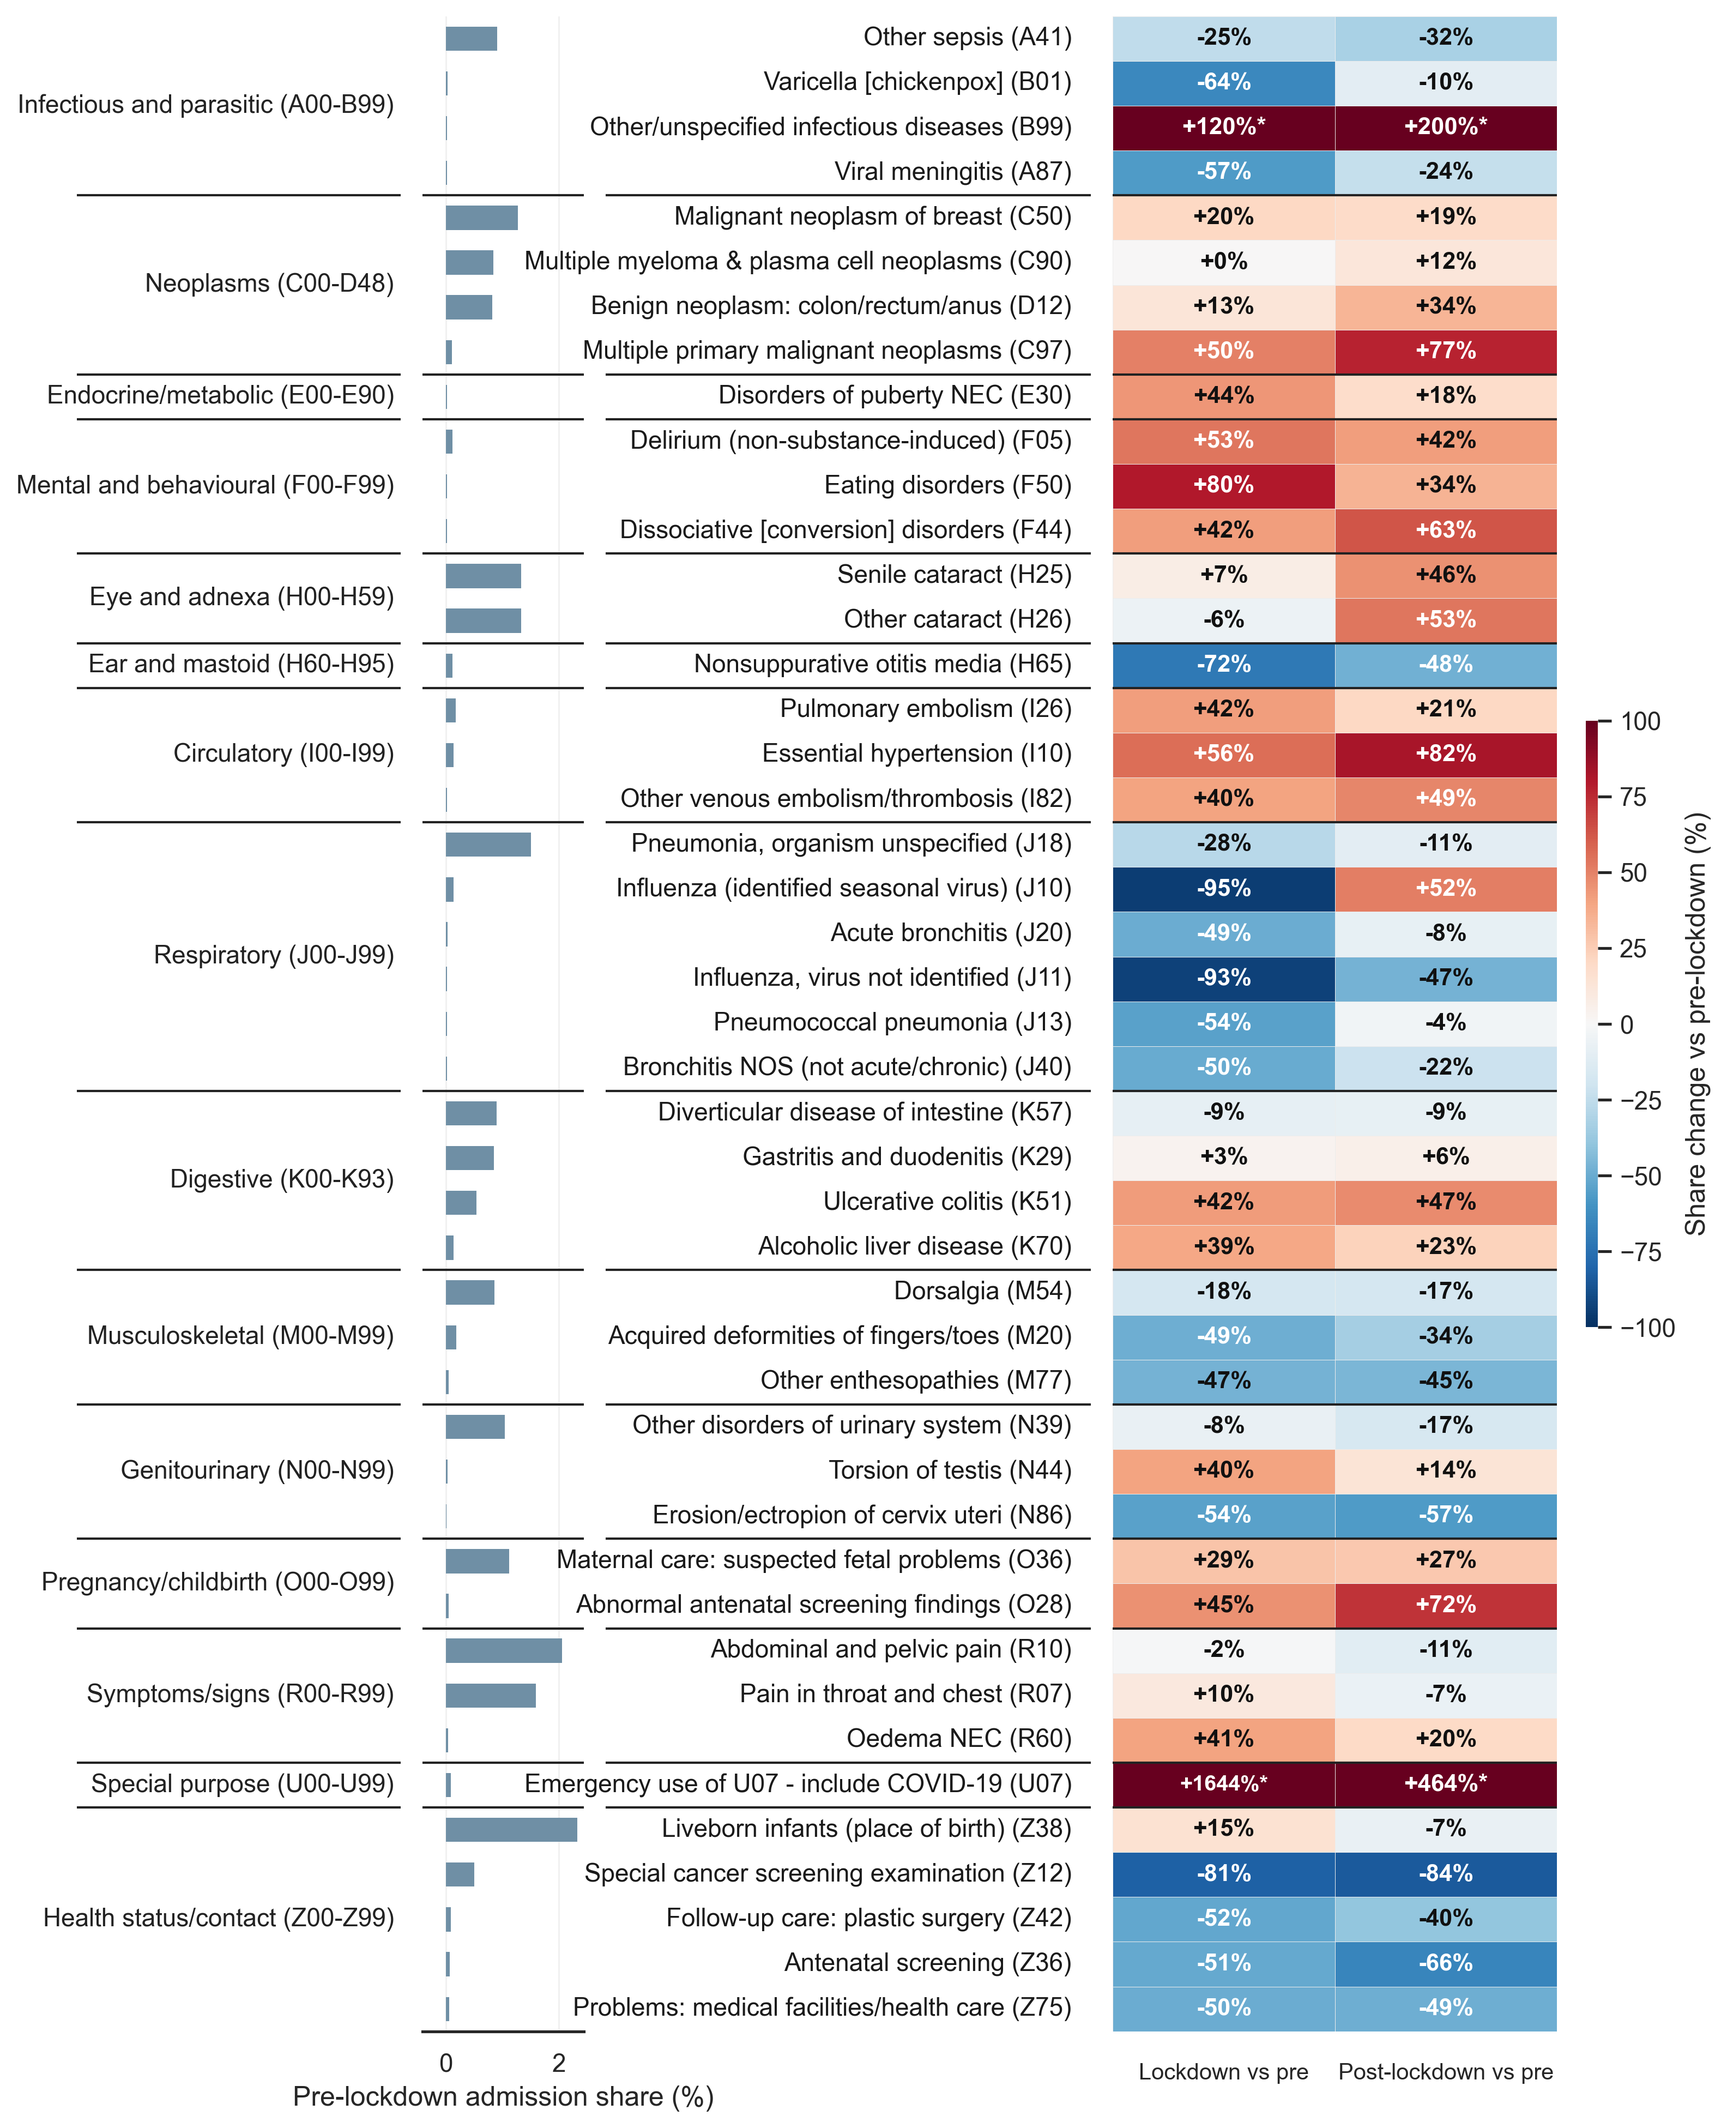
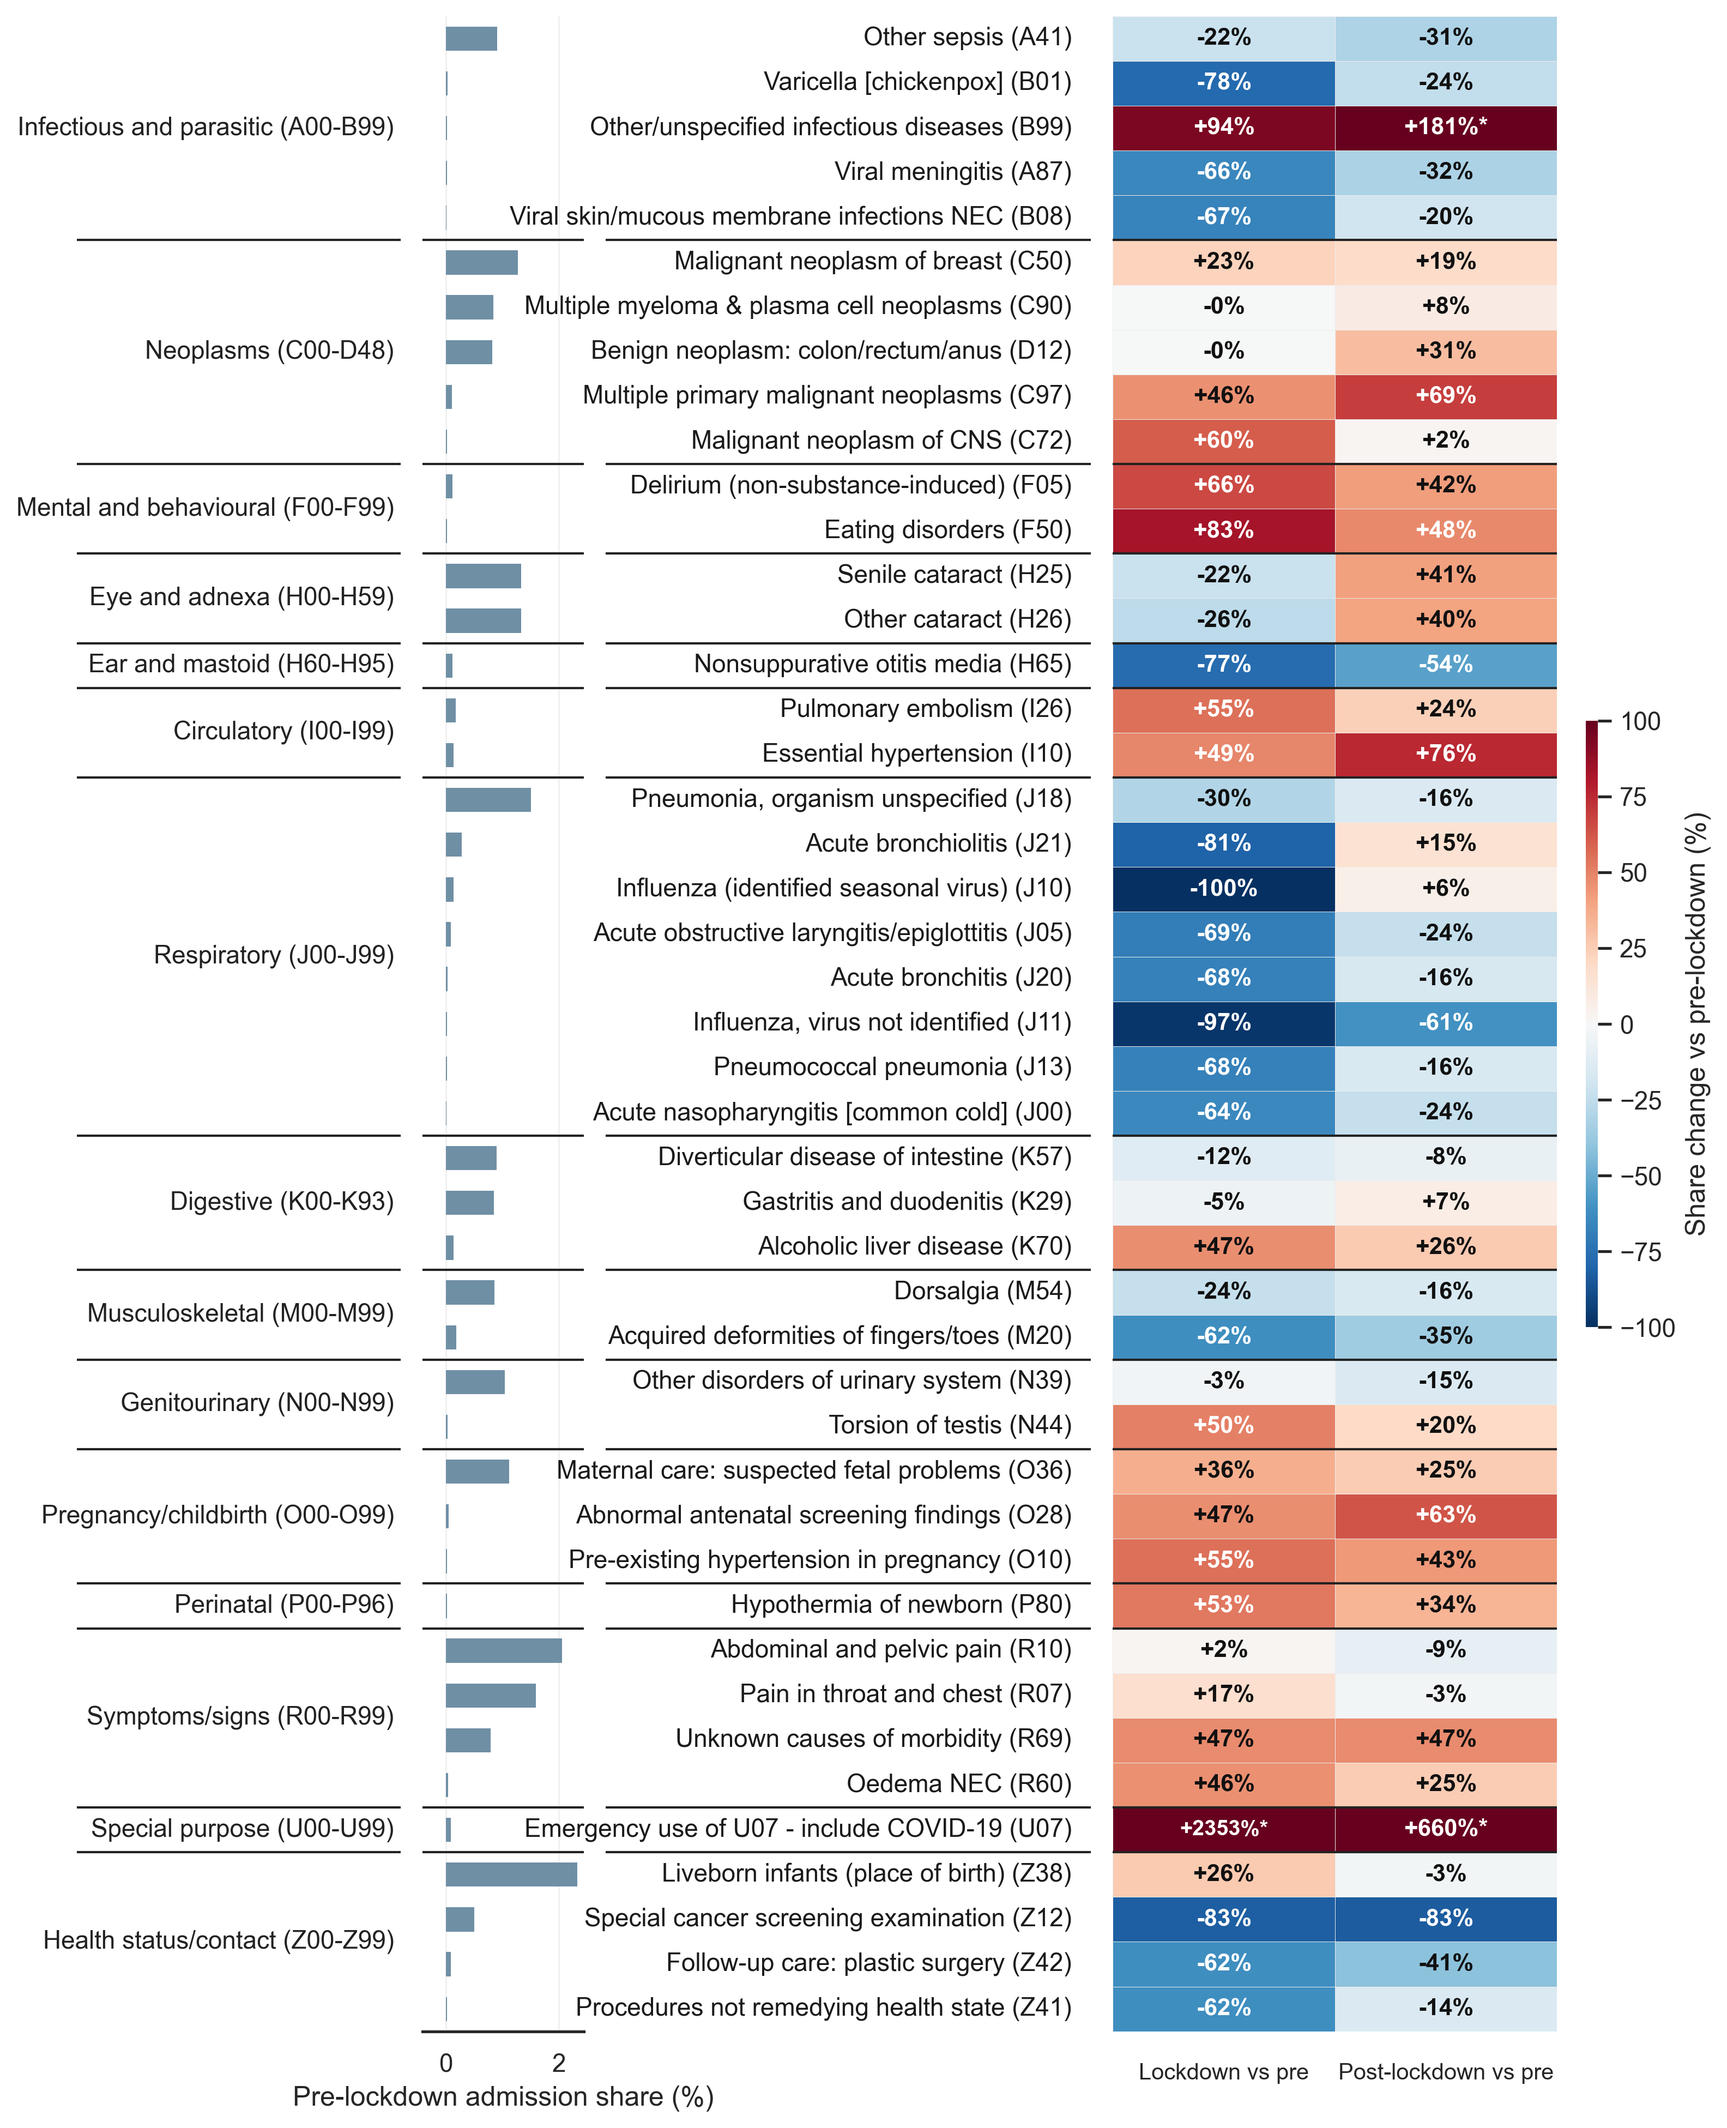
correct lockdown period

diff --git a/step2_draw_figure.py b/step2_draw_figure.py
@@ -55,7 +55,9 @@ def ICD_sort_key(label: str) -> int:
 
 # Shortened labels for display — applied after best_description lookup
 SHORT_DESC = {
+    'B08': 'Viral skin/mucous membrane infections NEC',
     'B99': 'Other/unspecified infectious diseases',
+    'C72': 'Malignant neoplasm of CNS',
     'C90': 'Multiple myeloma & plasma cell neoplasms',
     'C97': 'Multiple primary malignant neoplasms',
     'D12': 'Benign neoplasm: colon/rectum/anus',
@@ -63,18 +65,22 @@ SHORT_DESC = {
     'F05': 'Delirium (non-substance-induced)',
     'I10': 'Essential hypertension',
     'I82': 'Other venous embolism/thrombosis',
+    'J05': 'Acute obstructive laryngitis/epiglottitis',
     'J10': 'Influenza (identified seasonal virus)',
     'J13': 'Pneumococcal pneumonia',
     'J40': 'Bronchitis NOS (not acute/chronic)',
     'M20': 'Acquired deformities of fingers/toes',
     'N86': 'Erosion/ectropion of cervix uteri',
     'O28': 'Abnormal antenatal screening findings',
+    'O10': 'Pre-existing hypertension in pregnancy',
     'O36': 'Maternal care: suspected fetal problems',
     'R60': 'Oedema NEC',
+    'R69': 'Unknown causes of morbidity',
     'U07': 'Emergency use of U07 - include COVID-19',
     'Z12': 'Special cancer screening examination',
     'Z38': 'Liveborn infants (place of birth)',
     'Z42': 'Follow-up care: plastic surgery',
+    'Z41': 'Procedures not remedying health state',
     'Z75': 'Problems: medical facilities/health care',
 }
 

diff --git a/config.py b/config.py
@@ -30,7 +30,7 @@ PERIOD_MAP = {
     "2018-19": "pre_lockdown",
     "2019-20": "pre_lockdown",
     "2020-21": "lockdown",
-    "2021-22": "lockdown",
+    "2021-22": "post_lockdown",
     "2022-23": "post_lockdown",
     "2023-24": "post_lockdown",
 }

diff --git a/README.md b/README.md
@@ -1,6 +1,6 @@
 # Research Method Coursework 2
 
-## NHS Primary Diagnosis Admissions - Uneven Lockdown Disruption and Post-lockdown Recovery
+## COVID-19 Lockdown Impact on NHS Primary Diagnosis Admissions: Relative Changes Across ICD Categories
 
 This repository contains the visualisation produced for Coursework 2, examining how NHS hospital admission patterns shifted across the COVID-19 lockdown period.
 
@@ -16,9 +16,6 @@ The figure presents 45 primary diagnosis categories (ICD-10, 3-character codes),
 
 **Left panel — Pre-lockdown admission share (%)**  
 A horizontal bar chart showing each diagnosis's share of total NHS admissions in the pre-lockdown baseline period (2017–2020). Wider bars indicate higher-burden conditions.
-| Column | Period |
-|---|---|
-| Pre-lockdown | 2017-2020 |
 
 **Right heatmap — Change in admission share vs pre-lockdown (%)**  
 Two columns show the percentage change in admission share relative to the pre-lockdown baseline:
